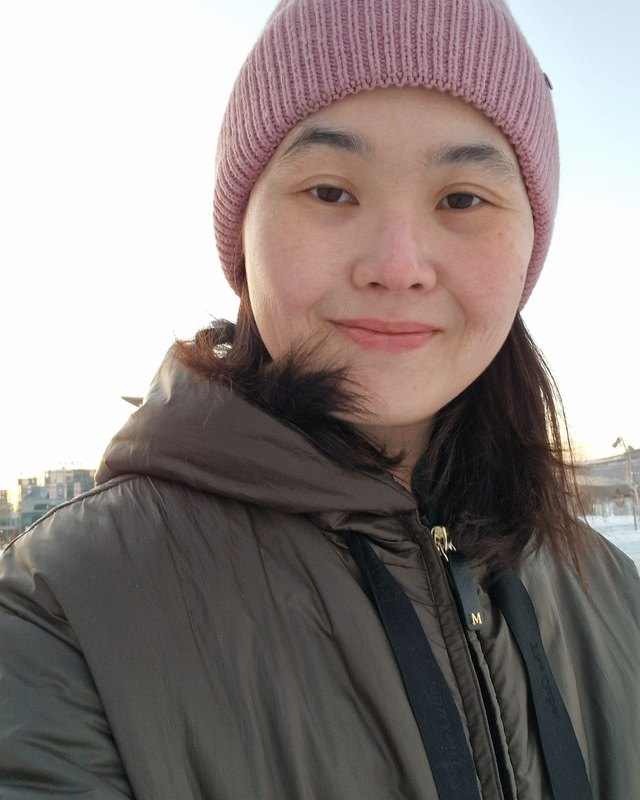
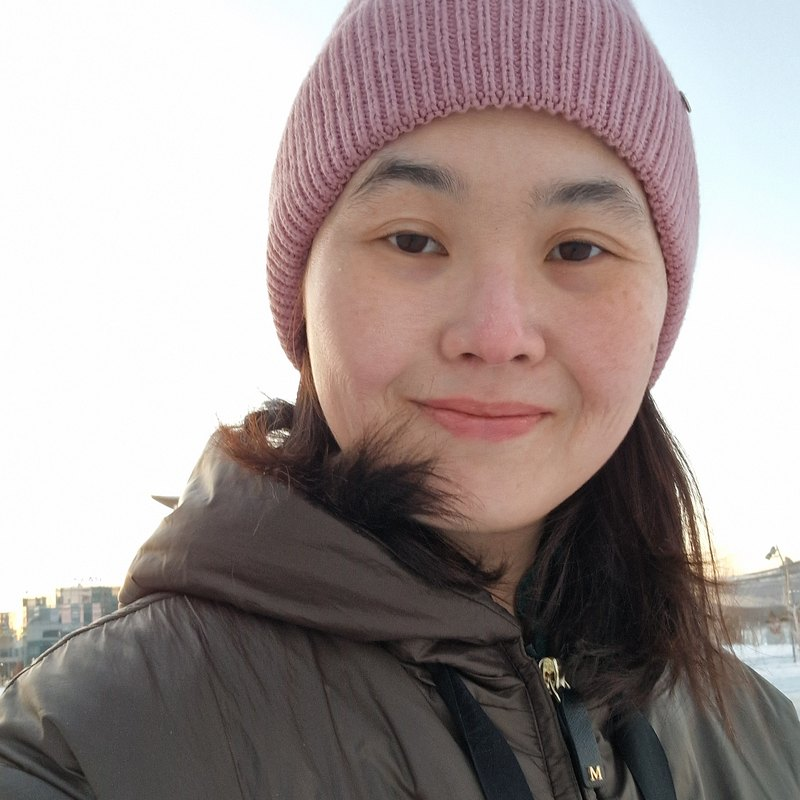
Good Woman's Life: the five measures drawn in pencil, portrait re-cut with headroom
Claude-Session: https://claude.ai/code/session_01VkJcGuVa2tN32X84NmE7gg

diff --git a/good-womans-life/index.html b/good-womans-life/index.html
@@ -268,53 +268,123 @@
       <div class="strips">
 <div class="strip">
   <div class="strip__head"><p class="strip__title">Births per woman, 2023</p><p class="strip__nat">Qazaqstan <b>2.97</b></p></div>
-  <div class="track"><span class="track__base"></span><span class="track__tick" style="left:50.00%"></span>
-    <span class="track__dot" style="left:6.00%"></span><span class="track__label" style="left:6.00%;top:6px;transform:translateX(-6px)">North 2.06</span>
-    <span class="track__dot" style="left:24.37%"></span><span class="track__label" style="left:24.37%;top:52px;transform:translateX(-50%)">Centre 2.44</span>
-    <span class="track__dot" style="left:30.18%"></span><span class="track__label" style="left:30.18%;top:6px;transform:translateX(-50%)">East 2.56</span>
-    <span class="track__dot" style="left:69.34%"></span><span class="track__label" style="left:69.34%;top:52px;transform:translateX(-50%)">West 3.37</span>
-    <span class="track__dot" style="left:94.00%"></span><span class="track__label" style="left:94.00%;top:6px;transform:translateX(calc(-100% + 6px))">South 3.88</span>
-  </div>
+  <svg class="strip__art" viewBox="0 0 1000 100" role="img" aria-label="Births per woman, 2023: North 2.06, Centre 2.44, East 2.56, West 3.37, South 3.88. Qazaqstan 2.97.">
+    <path d="M14,52 C 180,49 360,55 540,51 S 860,54 986,52" fill="none" stroke="#3a342e" stroke-width="1" stroke-linecap="round" opacity=".26" transform="translate(1.4,-1)" filter="url(#pencil)"></path>
+    <path d="M14,52 C 180,49 360,55 540,51 S 860,54 986,52" fill="none" stroke="#3a342e" stroke-width="1.3" stroke-linecap="round" filter="url(#pencil)"></path>
+    <path d="M500.0,30 V74" fill="none" stroke="#3a342e" stroke-width="1.2" stroke-linecap="round" opacity=".26" transform="translate(1.4,-1)" filter="url(#pencil)"></path>
+    <path d="M500.0,30 V74" fill="none" stroke="#3a342e" stroke-width="2.2" stroke-linecap="round" filter="url(#pencil)"></path>
+    <circle cx="60.0" cy="52" r="7" fill="#33657f" fill-opacity=".28" stroke="#33657f" stroke-width="1.1" opacity=".4" transform="translate(1.4,-1)" filter="url(#pencil)"></circle>
+    <circle cx="60.0" cy="52" r="7" fill="#33657f" fill-opacity=".28" stroke="#33657f" stroke-width="1.6" filter="url(#pencil)"></circle>
+    <text x="52.0" y="22" text-anchor="start" font-family="'Archivo Narrow', 'Arial Narrow', sans-serif" font-size="14" letter-spacing=".8" fill="#3b352e">North 2.06</text>
+    <circle cx="243.7" cy="52" r="7" fill="#1a8289" fill-opacity=".28" stroke="#1a8289" stroke-width="1.1" opacity=".4" transform="translate(1.4,-1)" filter="url(#pencil)"></circle>
+    <circle cx="243.7" cy="52" r="7" fill="#1a8289" fill-opacity=".28" stroke="#1a8289" stroke-width="1.6" filter="url(#pencil)"></circle>
+    <text x="243.7" y="90" text-anchor="middle" font-family="'Archivo Narrow', 'Arial Narrow', sans-serif" font-size="14" letter-spacing=".8" fill="#3b352e">Centre 2.44</text>
+    <circle cx="301.8" cy="52" r="7" fill="#299674" fill-opacity=".28" stroke="#299674" stroke-width="1.1" opacity=".4" transform="translate(1.4,-1)" filter="url(#pencil)"></circle>
+    <circle cx="301.8" cy="52" r="7" fill="#299674" fill-opacity=".28" stroke="#299674" stroke-width="1.6" filter="url(#pencil)"></circle>
+    <text x="301.8" y="22" text-anchor="middle" font-family="'Archivo Narrow', 'Arial Narrow', sans-serif" font-size="14" letter-spacing=".8" fill="#3b352e">East 2.56</text>
+    <circle cx="693.4" cy="52" r="7" fill="#c3772a" fill-opacity=".28" stroke="#c3772a" stroke-width="1.1" opacity=".4" transform="translate(1.4,-1)" filter="url(#pencil)"></circle>
+    <circle cx="693.4" cy="52" r="7" fill="#c3772a" fill-opacity=".28" stroke="#c3772a" stroke-width="1.6" filter="url(#pencil)"></circle>
+    <text x="693.4" y="90" text-anchor="middle" font-family="'Archivo Narrow', 'Arial Narrow', sans-serif" font-size="14" letter-spacing=".8" fill="#3b352e">West 3.37</text>
+    <circle cx="940.0" cy="52" r="7" fill="#8f3a86" fill-opacity=".28" stroke="#8f3a86" stroke-width="1.1" opacity=".4" transform="translate(1.4,-1)" filter="url(#pencil)"></circle>
+    <circle cx="940.0" cy="52" r="7" fill="#8f3a86" fill-opacity=".28" stroke="#8f3a86" stroke-width="1.6" filter="url(#pencil)"></circle>
+    <text x="948.0" y="22" text-anchor="end" font-family="'Archivo Narrow', 'Arial Narrow', sans-serif" font-size="14" letter-spacing=".8" fill="#3b352e">South 3.88</text>
+  </svg>
 </div>
 <div class="strip">
   <div class="strip__head"><p class="strip__title">Age at first marriage, 2023</p><p class="strip__nat">Qazaqstan <b>25.2</b></p></div>
-  <div class="track"><span class="track__base"></span><span class="track__tick" style="left:52.10%"></span>
-    <span class="track__dot" style="left:6.00%"></span><span class="track__label" style="left:6.00%;top:6px;transform:translateX(-6px)">South 24.1</span>
-    <span class="track__dot" style="left:31.14%"></span><span class="track__label" style="left:31.14%;top:52px;transform:translateX(-50%)">West 24.7</span>
-    <span class="track__dot" style="left:77.24%"></span><span class="track__label" style="left:77.24%;top:6px;transform:translateX(-50%)">Centre 25.8</span>
-    <span class="track__dot" style="left:85.62%"></span><span class="track__label" style="left:85.62%;top:52px;transform:translateX(-50%)">East 26.0</span>
-    <span class="track__dot" style="left:94.00%"></span><span class="track__label" style="left:94.00%;top:6px;transform:translateX(calc(-100% + 6px))">North 26.2</span>
-  </div>
+  <svg class="strip__art" viewBox="0 0 1000 100" role="img" aria-label="Age at first marriage, 2023: North 26.2, Centre 25.8, East 26.0, West 24.7, South 24.1. Qazaqstan 25.2.">
+    <path d="M14,52 C 180,49 360,55 540,51 S 860,54 986,52" fill="none" stroke="#3a342e" stroke-width="1" stroke-linecap="round" opacity=".26" transform="translate(1.4,-1)" filter="url(#pencil)"></path>
+    <path d="M14,52 C 180,49 360,55 540,51 S 860,54 986,52" fill="none" stroke="#3a342e" stroke-width="1.3" stroke-linecap="round" filter="url(#pencil)"></path>
+    <path d="M521.0,30 V74" fill="none" stroke="#3a342e" stroke-width="1.2" stroke-linecap="round" opacity=".26" transform="translate(1.4,-1)" filter="url(#pencil)"></path>
+    <path d="M521.0,30 V74" fill="none" stroke="#3a342e" stroke-width="2.2" stroke-linecap="round" filter="url(#pencil)"></path>
+    <circle cx="60.0" cy="52" r="7" fill="#8f3a86" fill-opacity=".28" stroke="#8f3a86" stroke-width="1.1" opacity=".4" transform="translate(1.4,-1)" filter="url(#pencil)"></circle>
+    <circle cx="60.0" cy="52" r="7" fill="#8f3a86" fill-opacity=".28" stroke="#8f3a86" stroke-width="1.6" filter="url(#pencil)"></circle>
+    <text x="52.0" y="22" text-anchor="start" font-family="'Archivo Narrow', 'Arial Narrow', sans-serif" font-size="14" letter-spacing=".8" fill="#3b352e">South 24.1</text>
+    <circle cx="311.4" cy="52" r="7" fill="#c3772a" fill-opacity=".28" stroke="#c3772a" stroke-width="1.1" opacity=".4" transform="translate(1.4,-1)" filter="url(#pencil)"></circle>
+    <circle cx="311.4" cy="52" r="7" fill="#c3772a" fill-opacity=".28" stroke="#c3772a" stroke-width="1.6" filter="url(#pencil)"></circle>
+    <text x="311.4" y="90" text-anchor="middle" font-family="'Archivo Narrow', 'Arial Narrow', sans-serif" font-size="14" letter-spacing=".8" fill="#3b352e">West 24.7</text>
+    <circle cx="772.4" cy="52" r="7" fill="#1a8289" fill-opacity=".28" stroke="#1a8289" stroke-width="1.1" opacity=".4" transform="translate(1.4,-1)" filter="url(#pencil)"></circle>
+    <circle cx="772.4" cy="52" r="7" fill="#1a8289" fill-opacity=".28" stroke="#1a8289" stroke-width="1.6" filter="url(#pencil)"></circle>
+    <text x="772.4" y="22" text-anchor="middle" font-family="'Archivo Narrow', 'Arial Narrow', sans-serif" font-size="14" letter-spacing=".8" fill="#3b352e">Centre 25.8</text>
+    <circle cx="856.2" cy="52" r="7" fill="#299674" fill-opacity=".28" stroke="#299674" stroke-width="1.1" opacity=".4" transform="translate(1.4,-1)" filter="url(#pencil)"></circle>
+    <circle cx="856.2" cy="52" r="7" fill="#299674" fill-opacity=".28" stroke="#299674" stroke-width="1.6" filter="url(#pencil)"></circle>
+    <text x="856.2" y="90" text-anchor="middle" font-family="'Archivo Narrow', 'Arial Narrow', sans-serif" font-size="14" letter-spacing=".8" fill="#3b352e">East 26.0</text>
+    <circle cx="940.0" cy="52" r="7" fill="#33657f" fill-opacity=".28" stroke="#33657f" stroke-width="1.1" opacity=".4" transform="translate(1.4,-1)" filter="url(#pencil)"></circle>
+    <circle cx="940.0" cy="52" r="7" fill="#33657f" fill-opacity=".28" stroke="#33657f" stroke-width="1.6" filter="url(#pencil)"></circle>
+    <text x="948.0" y="22" text-anchor="end" font-family="'Archivo Narrow', 'Arial Narrow', sans-serif" font-size="14" letter-spacing=".8" fill="#3b352e">North 26.2</text>
+  </svg>
 </div>
 <div class="strip">
   <div class="strip__head"><p class="strip__title">Registered divorces per 1,000 people, 2025</p><p class="strip__nat">Qazaqstan <b>2.24</b></p></div>
-  <div class="track"><span class="track__base"></span><span class="track__tick" style="left:38.94%"></span>
-    <span class="track__dot" style="left:6.00%"></span><span class="track__label" style="left:6.00%;top:6px;transform:translateX(-6px)">South 1.60</span>
-    <span class="track__dot" style="left:32.76%"></span><span class="track__label" style="left:32.76%;top:52px;transform:translateX(-50%)">West 2.12</span>
-    <span class="track__dot" style="left:72.90%"></span><span class="track__label" style="left:72.90%;top:6px;transform:translateX(-50%)">East 2.90</span>
-    <span class="track__dot" style="left:81.65%"></span><span class="track__label" style="left:81.65%;top:52px;transform:translateX(-50%)">North 3.07</span>
-    <span class="track__dot" style="left:94.00%"></span><span class="track__label" style="left:94.00%;top:6px;transform:translateX(calc(-100% + 6px))">Centre 3.31</span>
-  </div>
+  <svg class="strip__art" viewBox="0 0 1000 100" role="img" aria-label="Registered divorces per 1,000 people, 2025: North 3.07, Centre 3.31, East 2.90, West 2.12, South 1.60. Qazaqstan 2.24.">
+    <path d="M14,52 C 180,49 360,55 540,51 S 860,54 986,52" fill="none" stroke="#3a342e" stroke-width="1" stroke-linecap="round" opacity=".26" transform="translate(1.4,-1)" filter="url(#pencil)"></path>
+    <path d="M14,52 C 180,49 360,55 540,51 S 860,54 986,52" fill="none" stroke="#3a342e" stroke-width="1.3" stroke-linecap="round" filter="url(#pencil)"></path>
+    <path d="M389.4,30 V74" fill="none" stroke="#3a342e" stroke-width="1.2" stroke-linecap="round" opacity=".26" transform="translate(1.4,-1)" filter="url(#pencil)"></path>
+    <path d="M389.4,30 V74" fill="none" stroke="#3a342e" stroke-width="2.2" stroke-linecap="round" filter="url(#pencil)"></path>
+    <circle cx="60.0" cy="52" r="7" fill="#8f3a86" fill-opacity=".28" stroke="#8f3a86" stroke-width="1.1" opacity=".4" transform="translate(1.4,-1)" filter="url(#pencil)"></circle>
+    <circle cx="60.0" cy="52" r="7" fill="#8f3a86" fill-opacity=".28" stroke="#8f3a86" stroke-width="1.6" filter="url(#pencil)"></circle>
+    <text x="52.0" y="22" text-anchor="start" font-family="'Archivo Narrow', 'Arial Narrow', sans-serif" font-size="14" letter-spacing=".8" fill="#3b352e">South 1.60</text>
+    <circle cx="327.6" cy="52" r="7" fill="#c3772a" fill-opacity=".28" stroke="#c3772a" stroke-width="1.1" opacity=".4" transform="translate(1.4,-1)" filter="url(#pencil)"></circle>
+    <circle cx="327.6" cy="52" r="7" fill="#c3772a" fill-opacity=".28" stroke="#c3772a" stroke-width="1.6" filter="url(#pencil)"></circle>
+    <text x="327.6" y="90" text-anchor="middle" font-family="'Archivo Narrow', 'Arial Narrow', sans-serif" font-size="14" letter-spacing=".8" fill="#3b352e">West 2.12</text>
+    <circle cx="729.0" cy="52" r="7" fill="#299674" fill-opacity=".28" stroke="#299674" stroke-width="1.1" opacity=".4" transform="translate(1.4,-1)" filter="url(#pencil)"></circle>
+    <circle cx="729.0" cy="52" r="7" fill="#299674" fill-opacity=".28" stroke="#299674" stroke-width="1.6" filter="url(#pencil)"></circle>
+    <text x="729.0" y="22" text-anchor="middle" font-family="'Archivo Narrow', 'Arial Narrow', sans-serif" font-size="14" letter-spacing=".8" fill="#3b352e">East 2.90</text>
+    <circle cx="816.5" cy="52" r="7" fill="#33657f" fill-opacity=".28" stroke="#33657f" stroke-width="1.1" opacity=".4" transform="translate(1.4,-1)" filter="url(#pencil)"></circle>
+    <circle cx="816.5" cy="52" r="7" fill="#33657f" fill-opacity=".28" stroke="#33657f" stroke-width="1.6" filter="url(#pencil)"></circle>
+    <text x="816.5" y="90" text-anchor="middle" font-family="'Archivo Narrow', 'Arial Narrow', sans-serif" font-size="14" letter-spacing=".8" fill="#3b352e">North 3.07</text>
+    <circle cx="940.0" cy="52" r="7" fill="#1a8289" fill-opacity=".28" stroke="#1a8289" stroke-width="1.1" opacity=".4" transform="translate(1.4,-1)" filter="url(#pencil)"></circle>
+    <circle cx="940.0" cy="52" r="7" fill="#1a8289" fill-opacity=".28" stroke="#1a8289" stroke-width="1.6" filter="url(#pencil)"></circle>
+    <text x="948.0" y="22" text-anchor="end" font-family="'Archivo Narrow', 'Arial Narrow', sans-serif" font-size="14" letter-spacing=".8" fill="#3b352e">Centre 3.31</text>
+  </svg>
 </div>
 <div class="strip">
   <div class="strip__head"><p class="strip__title">People per household, 2021</p><p class="strip__nat">Qazaqstan <b>3.4</b></p></div>
-  <div class="track"><span class="track__base"></span><span class="track__tick" style="left:50.00%"></span>
-    <span class="track__dot" style="left:6.00%"></span><span class="track__label" style="left:6.00%;top:6px;transform:translateX(-6px)">East 2.6</span>
-    <span class="track__dot" style="left:22.50%"></span><span class="track__label" style="left:22.50%;top:52px;transform:translateX(-50%)">North 2.9</span>
-    <span class="track__dot" style="left:33.50%"></span><span class="track__label" style="left:33.50%;top:6px;transform:translateX(-50%)">Centre 3.1</span>
-    <span class="track__dot" style="left:77.50%"></span><span class="track__label" style="left:77.50%;top:52px;transform:translateX(-50%)">West 3.9</span>
-    <span class="track__dot" style="left:94.00%"></span><span class="track__label" style="left:94.00%;top:6px;transform:translateX(calc(-100% + 6px))">South 4.2</span>
-  </div>
+  <svg class="strip__art" viewBox="0 0 1000 100" role="img" aria-label="People per household, 2021: North 2.9, Centre 3.1, East 2.6, West 3.9, South 4.2. Qazaqstan 3.4.">
+    <path d="M14,52 C 180,49 360,55 540,51 S 860,54 986,52" fill="none" stroke="#3a342e" stroke-width="1" stroke-linecap="round" opacity=".26" transform="translate(1.4,-1)" filter="url(#pencil)"></path>
+    <path d="M14,52 C 180,49 360,55 540,51 S 860,54 986,52" fill="none" stroke="#3a342e" stroke-width="1.3" stroke-linecap="round" filter="url(#pencil)"></path>
+    <path d="M500.0,30 V74" fill="none" stroke="#3a342e" stroke-width="1.2" stroke-linecap="round" opacity=".26" transform="translate(1.4,-1)" filter="url(#pencil)"></path>
+    <path d="M500.0,30 V74" fill="none" stroke="#3a342e" stroke-width="2.2" stroke-linecap="round" filter="url(#pencil)"></path>
+    <circle cx="60.0" cy="52" r="7" fill="#299674" fill-opacity=".28" stroke="#299674" stroke-width="1.1" opacity=".4" transform="translate(1.4,-1)" filter="url(#pencil)"></circle>
+    <circle cx="60.0" cy="52" r="7" fill="#299674" fill-opacity=".28" stroke="#299674" stroke-width="1.6" filter="url(#pencil)"></circle>
+    <text x="52.0" y="22" text-anchor="start" font-family="'Archivo Narrow', 'Arial Narrow', sans-serif" font-size="14" letter-spacing=".8" fill="#3b352e">East 2.6</text>
+    <circle cx="225.0" cy="52" r="7" fill="#33657f" fill-opacity=".28" stroke="#33657f" stroke-width="1.1" opacity=".4" transform="translate(1.4,-1)" filter="url(#pencil)"></circle>
+    <circle cx="225.0" cy="52" r="7" fill="#33657f" fill-opacity=".28" stroke="#33657f" stroke-width="1.6" filter="url(#pencil)"></circle>
+    <text x="225.0" y="90" text-anchor="middle" font-family="'Archivo Narrow', 'Arial Narrow', sans-serif" font-size="14" letter-spacing=".8" fill="#3b352e">North 2.9</text>
+    <circle cx="335.0" cy="52" r="7" fill="#1a8289" fill-opacity=".28" stroke="#1a8289" stroke-width="1.1" opacity=".4" transform="translate(1.4,-1)" filter="url(#pencil)"></circle>
+    <circle cx="335.0" cy="52" r="7" fill="#1a8289" fill-opacity=".28" stroke="#1a8289" stroke-width="1.6" filter="url(#pencil)"></circle>
+    <text x="335.0" y="22" text-anchor="middle" font-family="'Archivo Narrow', 'Arial Narrow', sans-serif" font-size="14" letter-spacing=".8" fill="#3b352e">Centre 3.1</text>
+    <circle cx="775.0" cy="52" r="7" fill="#c3772a" fill-opacity=".28" stroke="#c3772a" stroke-width="1.1" opacity=".4" transform="translate(1.4,-1)" filter="url(#pencil)"></circle>
+    <circle cx="775.0" cy="52" r="7" fill="#c3772a" fill-opacity=".28" stroke="#c3772a" stroke-width="1.6" filter="url(#pencil)"></circle>
+    <text x="775.0" y="90" text-anchor="middle" font-family="'Archivo Narrow', 'Arial Narrow', sans-serif" font-size="14" letter-spacing=".8" fill="#3b352e">West 3.9</text>
+    <circle cx="940.0" cy="52" r="7" fill="#8f3a86" fill-opacity=".28" stroke="#8f3a86" stroke-width="1.1" opacity=".4" transform="translate(1.4,-1)" filter="url(#pencil)"></circle>
+    <circle cx="940.0" cy="52" r="7" fill="#8f3a86" fill-opacity=".28" stroke="#8f3a86" stroke-width="1.6" filter="url(#pencil)"></circle>
+    <text x="948.0" y="22" text-anchor="end" font-family="'Archivo Narrow', 'Arial Narrow', sans-serif" font-size="14" letter-spacing=".8" fill="#3b352e">South 4.2</text>
+  </svg>
 </div>
 <div class="strip">
   <div class="strip__head"><p class="strip__title">Qazaq as the language of daily use, 2021</p><p class="strip__nat">Qazaqstan <b>49%</b></p></div>
-  <div class="track"><span class="track__base"></span><span class="track__tick" style="left:63.30%"></span>
-    <span class="track__dot" style="left:6.00%"></span><span class="track__label" style="left:6.00%;top:6px;transform:translateX(-6px)">North 21%</span>
-    <span class="track__dot" style="left:38.74%"></span><span class="track__label" style="left:38.74%;top:52px;transform:translateX(-50%)">Centre 37%</span>
-    <span class="track__dot" style="left:48.98%"></span><span class="track__label" style="left:48.98%;top:6px;transform:translateX(-50%)">East 42%</span>
-    <span class="track__dot" style="left:91.95%"></span><span class="track__label" style="left:91.95%;top:52px;transform:translateX(calc(-100% + 6px))">South 63%</span>
-    <span class="track__dot" style="left:94.00%"></span><span class="track__label" style="left:94.00%;top:6px;transform:translateX(calc(-100% + 6px))">West 64%</span>
-  </div>
+  <svg class="strip__art" viewBox="0 0 1000 100" role="img" aria-label="Qazaq as the language of daily use, 2021: North 21%, Centre 37%, East 42%, West 64%, South 63%. Qazaqstan 49%.">
+    <path d="M14,52 C 180,49 360,55 540,51 S 860,54 986,52" fill="none" stroke="#3a342e" stroke-width="1" stroke-linecap="round" opacity=".26" transform="translate(1.4,-1)" filter="url(#pencil)"></path>
+    <path d="M14,52 C 180,49 360,55 540,51 S 860,54 986,52" fill="none" stroke="#3a342e" stroke-width="1.3" stroke-linecap="round" filter="url(#pencil)"></path>
+    <path d="M633.0,30 V74" fill="none" stroke="#3a342e" stroke-width="1.2" stroke-linecap="round" opacity=".26" transform="translate(1.4,-1)" filter="url(#pencil)"></path>
+    <path d="M633.0,30 V74" fill="none" stroke="#3a342e" stroke-width="2.2" stroke-linecap="round" filter="url(#pencil)"></path>
+    <circle cx="60.0" cy="52" r="7" fill="#33657f" fill-opacity=".28" stroke="#33657f" stroke-width="1.1" opacity=".4" transform="translate(1.4,-1)" filter="url(#pencil)"></circle>
+    <circle cx="60.0" cy="52" r="7" fill="#33657f" fill-opacity=".28" stroke="#33657f" stroke-width="1.6" filter="url(#pencil)"></circle>
+    <text x="52.0" y="22" text-anchor="start" font-family="'Archivo Narrow', 'Arial Narrow', sans-serif" font-size="14" letter-spacing=".8" fill="#3b352e">North 21%</text>
+    <circle cx="387.4" cy="52" r="7" fill="#1a8289" fill-opacity=".28" stroke="#1a8289" stroke-width="1.1" opacity=".4" transform="translate(1.4,-1)" filter="url(#pencil)"></circle>
+    <circle cx="387.4" cy="52" r="7" fill="#1a8289" fill-opacity=".28" stroke="#1a8289" stroke-width="1.6" filter="url(#pencil)"></circle>
+    <text x="387.4" y="90" text-anchor="middle" font-family="'Archivo Narrow', 'Arial Narrow', sans-serif" font-size="14" letter-spacing=".8" fill="#3b352e">Centre 37%</text>
+    <circle cx="489.8" cy="52" r="7" fill="#299674" fill-opacity=".28" stroke="#299674" stroke-width="1.1" opacity=".4" transform="translate(1.4,-1)" filter="url(#pencil)"></circle>
+    <circle cx="489.8" cy="52" r="7" fill="#299674" fill-opacity=".28" stroke="#299674" stroke-width="1.6" filter="url(#pencil)"></circle>
+    <text x="489.8" y="22" text-anchor="middle" font-family="'Archivo Narrow', 'Arial Narrow', sans-serif" font-size="14" letter-spacing=".8" fill="#3b352e">East 42%</text>
+    <circle cx="919.5" cy="52" r="7" fill="#8f3a86" fill-opacity=".28" stroke="#8f3a86" stroke-width="1.1" opacity=".4" transform="translate(1.4,-1)" filter="url(#pencil)"></circle>
+    <circle cx="919.5" cy="52" r="7" fill="#8f3a86" fill-opacity=".28" stroke="#8f3a86" stroke-width="1.6" filter="url(#pencil)"></circle>
+    <text x="927.5" y="90" text-anchor="end" font-family="'Archivo Narrow', 'Arial Narrow', sans-serif" font-size="14" letter-spacing=".8" fill="#3b352e">South 63%</text>
+    <circle cx="940.0" cy="52" r="7" fill="#c3772a" fill-opacity=".28" stroke="#c3772a" stroke-width="1.1" opacity=".4" transform="translate(1.4,-1)" filter="url(#pencil)"></circle>
+    <circle cx="940.0" cy="52" r="7" fill="#c3772a" fill-opacity=".28" stroke="#c3772a" stroke-width="1.6" filter="url(#pencil)"></circle>
+    <text x="948.0" y="22" text-anchor="end" font-family="'Archivo Narrow', 'Arial Narrow', sans-serif" font-size="14" letter-spacing=".8" fill="#3b352e">West 64%</text>
+  </svg>
 </div>
       </div>
       <p class="source">Bureau of National Statistics of Kazakhstan. Births per woman and age at first marriage from the <a href="https://stat.gov.kz/upload/iblock/40f/zejwj3bggzww1203egdkbhetikacw9bd/%D0%95-10-%D0%93%20(%D1%80%D1%83%D1%81).pdf">Demographic Yearbook 2019&ndash;2023</a>, tables 6.8 and 5.3. Divorces from <a href="https://stat.gov.kz/ru/news/braki-i-razvody-v-2025-godu/">Marriages and divorces in 2025</a>, updated 30 April 2026. Household size and Qazaq in daily use from the 2021 census: <a href="https://stat.gov.kz/api/iblock/element/104705/file/ru/">Households of the Republic of Kazakhstan</a>, table 3, and <a href="https://stat.gov.kz/upload/medialibrary/e62/b1e0sokkht34a1iyu2qdmu30dayt6sz1/%D0%9A%D1%80%D0%B0%D1%82%D0%BA%D0%B8%D0%B5%20%D0%B8%D1%82%D0%BE%D0%B3%D0%B8%20%D0%9F%D0%B5%D1%80%D0%B5%D0%BF%D0%B8%D1%81%D0%B8%20%D0%BD%D0%B0%D1%81%D0%B5%D0%BB%D0%B5%D0%BD%D0%B8%D1%8F.pdf">Brief Results of the 2021 Census</a>, section 5.2. Regional figures are population-weighted from the oblasts in each region; the three cities administered apart from the oblasts are not included.</p>
@@ -440,26 +510,26 @@
     </section>
     <div class="team">
       <div class="who">
-        <img src="team-dina.jpg" alt="Dina Pisareva" width="640" height="800" loading="lazy">
+        <img src="team-dina.jpg" alt="Dina Pisareva" loading="lazy">
         <h3 class="who__name">Dina Pisareva</h3>
         <p class="who__role">Principal investigator &middot; Assistant Professor of Political Science, Nazarbayev University</p>
         <p class="who__bio">I'm an interdisciplinary social scientist. I'm interested in questions that matter to me, whether it's how people make sense of sexuality, what type of communication helps people trust vaccines, how crisis shelters operate, or how to design a mode of working with AI in higher education to promote intellectual augmentation. This project continues my earlier work on gender violence and crisis shelters in Qazaqstan, and is my attempt to understand and tell the lives of women in the country.</p>
       </div>
       <div class="who">
-        <img src="team-aruzhan.jpg" alt="Aruzhan Seidaliyeva" width="640" height="800" loading="lazy">
+        <img src="team-aruzhan.jpg" alt="Aruzhan Seidaliyeva" loading="lazy">
         <h3 class="who__name">Aruzhan Seidaliyeva</h3>
         <p class="who__role">PhD student in Public Policy, Nazarbayev University</p>
         <p class="who__bio">Aruzhan holds an MA in Political Science and International Relations from Nazarbayev University and a BA in Translation Studies from Narikbayev University. Her research centres on gender, governance and institutions in Qazaqstan, building on earlier fieldwork on crisis shelters for survivors of domestic violence. As a woman living in Qazaqstan, the questions this study asks are ones she carries herself.</p>
       </div>
       <div class="who">
-        <img src="team-dilnaz.jpg" alt="Dilnaz Mukhtarkhanova" width="640" height="800" loading="lazy">
+        <img src="team-dilnaz.jpg" alt="Dilnaz Mukhtarkhanova" loading="lazy">
         <h3 class="who__name">Dilnaz Mukhtarkhanova</h3>
         <p class="who__role">Junior researcher &middot; Political Science and International Relations, Nazarbayev University</p>
         <p class="who__bio">Dilnaz studies at the School of Sciences and Humanities. Her work focuses on authoritarian legislative institutions, women's rights and gender policy in Central Asia, and the accountability of authoritarian justice systems.</p>
         <p class="who__q">&ldquo;I joined this project because I share an immense interest in both research and women's lives. Women's issues and ideas must stay resonant and salient at all times.&rdquo;</p>
       </div>
       <div class="who">
-        <img src="team-akerke.jpg" alt="Akerke Mukhtarkyzy" width="640" height="800" loading="lazy">
+        <img src="team-akerke.jpg" alt="Akerke Mukhtarkyzy" loading="lazy">
         <h3 class="who__name">Akerke Mukhtarkyzy</h3>
         <p class="who__role">Junior researcher &middot; Political Science and International Relations, Nazarbayev University</p>
         <p class="who__bio">Akerke is an aspiring researcher, a feminist, and a sudoku lover.</p>

diff --git a/good-womans-life/atlas.css b/good-womans-life/atlas.css
@@ -83,11 +83,11 @@ img { display: block; max-width: 100%; height: auto; }
 .strip__title { font-family: 'Archivo Narrow', sans-serif; font-weight: 500; font-size: 13px; letter-spacing: .14em; text-transform: uppercase; color: #1a1613; }
 .strip__nat { font-size: 15px; color: #4b433d; }
 .strip__nat b { font-family: 'Archivo Narrow', sans-serif; font-weight: 500; font-size: 16px; color: #1a1613; margin-left: 6px; }
-.track { position: relative; height: 78px; margin-top: 6px; }
-.track__base { position: absolute; left: 0; right: 0; top: 50%; height: 1px; background: rgba(26,22,19,.35); }
-.track__tick { position: absolute; top: 18px; bottom: 18px; width: 2px; background: #1a1613; transform: translateX(-50%); }
-.track__dot { position: absolute; top: 50%; width: 11px; height: 11px; border-radius: 50%; background: #c9402e; transform: translate(-50%, -50%); }
-.track__label { position: absolute; white-space: nowrap; font-family: 'Archivo Narrow', sans-serif; font-size: 13px; letter-spacing: .06em; color: #3b352e; }
+.strip__art { display: block; width: 100%; height: auto; margin-top: 2px; }
+@media (max-width: 720px) {
+  .strip__art text { font-size: 32px; letter-spacing: .4px; }
+  .strip__art circle { r: 12px; }
+}
 .source { margin-top: 14px; font-size: 13.5px; line-height: 1.6; font-style: italic; color: #4b433d; }
 
 /* plate G */
@@ -124,7 +124,7 @@ img { display: block; max-width: 100%; height: auto; }
 .us-body { display: flex; flex-wrap: wrap; gap: 16px 40px; align-items: flex-end; margin-top: 12px; }
 .team { flex: 1 1 100%; min-width: 0; display: grid; grid-template-columns: repeat(auto-fit, minmax(190px, 1fr)); gap: 1px; background: #f6f1e6; }
 .who { min-width: 0; background: #f6f1e6; display: flex; flex-direction: column; padding: 0 0 22px; }
-.who img { width: 100%; aspect-ratio: 1 / 1; max-height: 360px; object-fit: cover; background: #ebe4d6; }
+.who img { width: 100%; aspect-ratio: 1 / 1; max-height: 360px; object-fit: cover; object-position: 50% 8%; background: #ebe4d6; }
 .who__name { margin: 18px 20px 0; font-weight: 500; font-size: 22px; line-height: 1.15; color: #1a1613; }
 .who__role { margin: 8px 20px 0; font-family: 'Archivo Narrow', sans-serif; font-size: 11px; letter-spacing: .16em; text-transform: uppercase; line-height: 1.7; color: #7c2417; }
 .who__bio { margin: 12px 20px 0; font-size: 15.5px; line-height: 1.58; color: #3b352e; text-wrap: pretty; }
